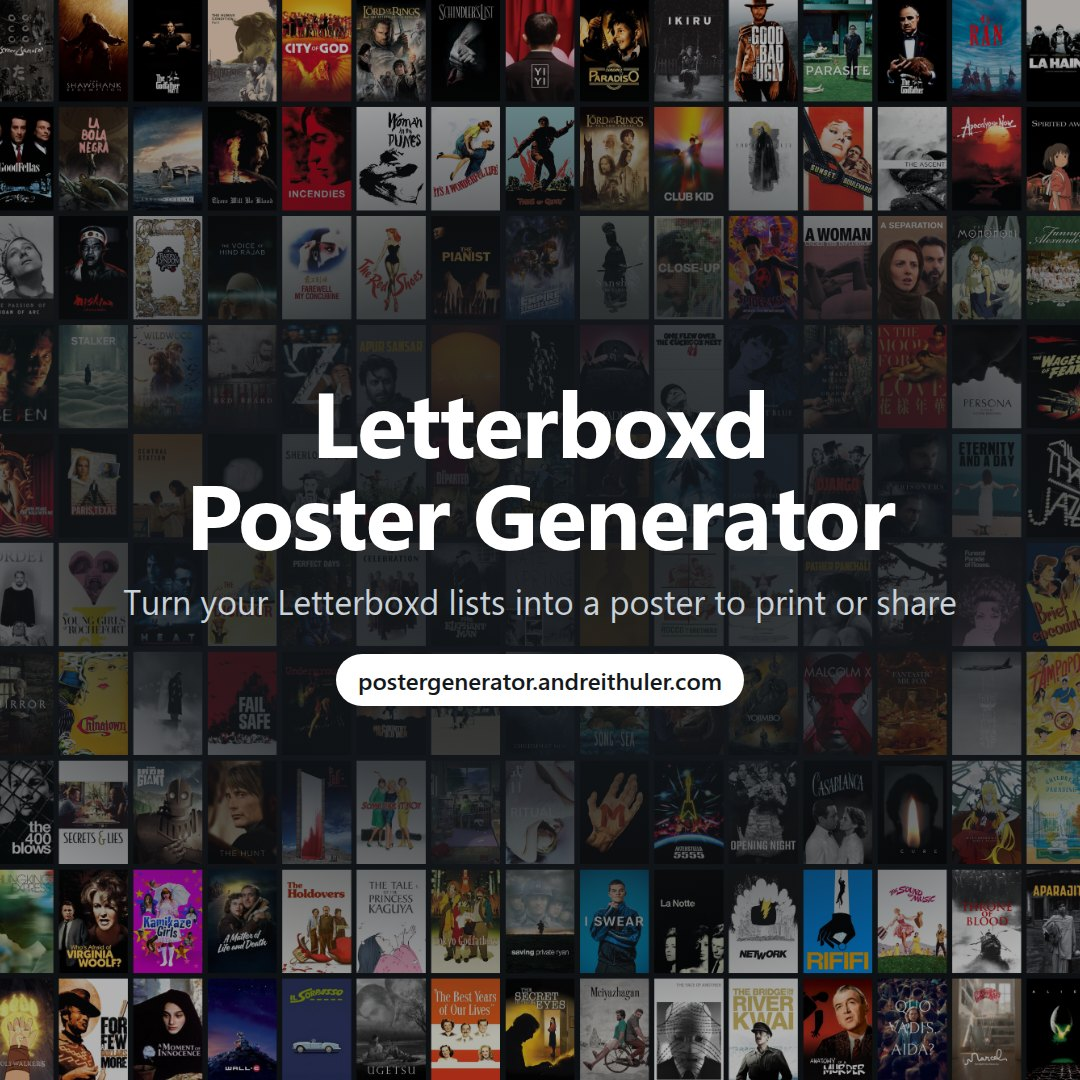
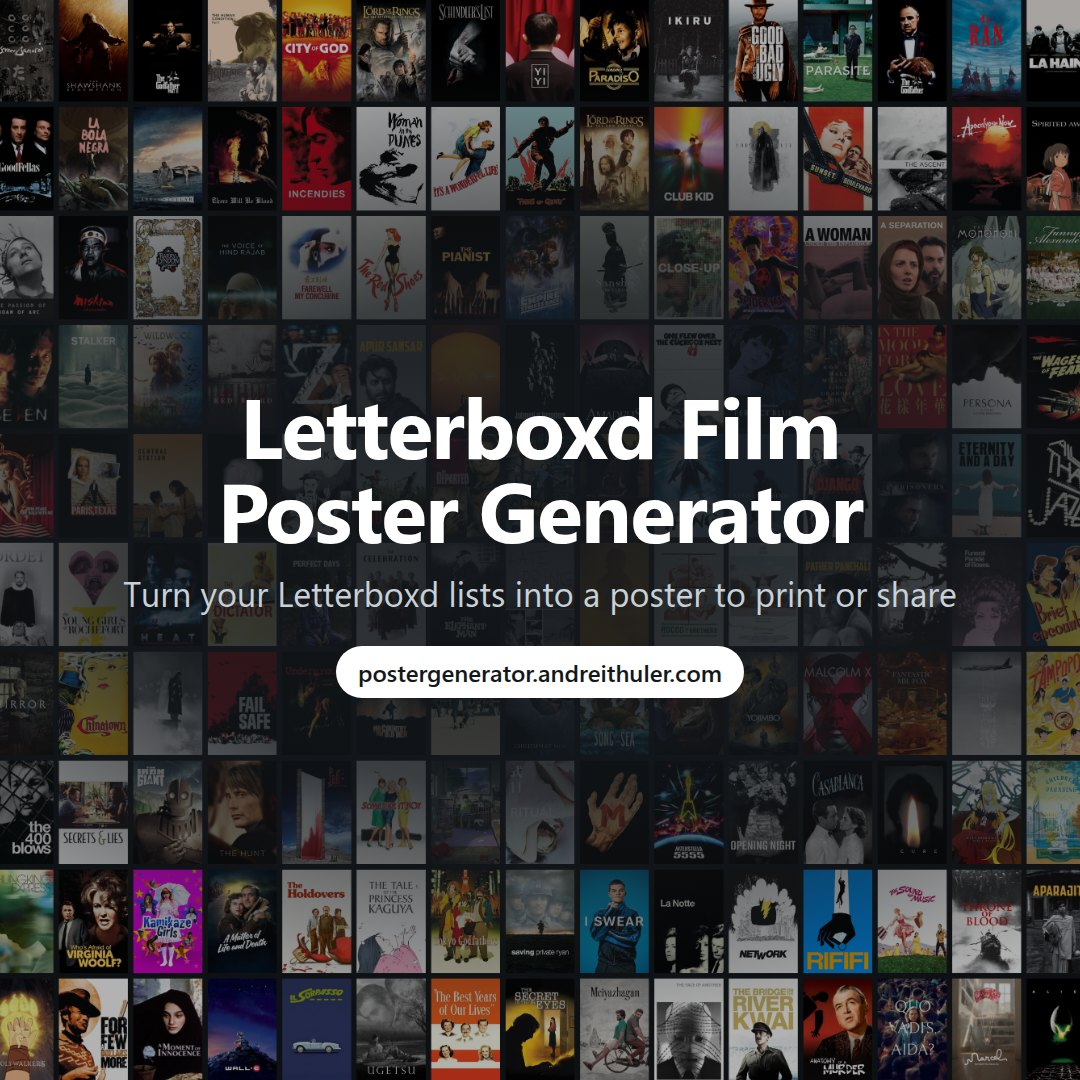
SEO: title, description, link previews, structured data, FAQ, sitemap
The site is now "Letterboxd Film Poster Generator", with a shorter title,
a meta description, a canonical URL, theme colours and a favicon. Link
previews (Open Graph and Twitter) use the banner, which now carries the
new name (the square version too).

An FAQ dialog, opened from the header, the footer or /#faq, explains
what the site does. Its script is inline, so it works even if app.js
fails. Structured data describes the app, and the FAQ part is built from
the dialog so each question is written once.

robots.txt and sitemap.xml point crawlers at the one page.

Changed region(s): [[0.1222, 0.3667, 0.8861, 0.6722]]

diff --git a/index.html b/index.html
@@ -3,7 +3,45 @@
 <head>
 <meta charset="utf-8">
 <meta name="viewport" content="width=device-width, initial-scale=1">
-<title>Letterboxd Poster Generator</title>
+<title>Letterboxd Film Poster Generator: printable list posters</title>
+<meta name="description" content="Turn any Letterboxd list into a film poster to print or share. Free, no account, and your data stays in your browser. Download a PNG or a print-ready PDF.">
+<link rel="canonical" href="https://postergenerator.andreithuler.com/">
+<link rel="icon" type="image/svg+xml" href="favicon.svg">
+<meta name="theme-color" content="#f6f6f4" media="(prefers-color-scheme: light)">
+<meta name="theme-color" content="#14181c" media="(prefers-color-scheme: dark)">
+<meta property="og:type" content="website">
+<meta property="og:site_name" content="Letterboxd Film Poster Generator">
+<meta property="og:title" content="Letterboxd Film Poster Generator">
+<meta property="og:description" content="Turn any Letterboxd list into a film poster to print or share. Free, no account, and your data stays in your browser. Download a PNG or a print-ready PDF.">
+<meta property="og:url" content="https://postergenerator.andreithuler.com/">
+<meta property="og:image" content="https://postergenerator.andreithuler.com/docs/banner.jpg">
+<meta property="og:image:width" content="1280">
+<meta property="og:image:height" content="640">
+<meta property="og:image:alt" content="A wall of film posters behind the words Letterboxd Film Poster Generator">
+<meta name="twitter:card" content="summary_large_image">
+<!-- Structured data for search engines. The FAQ part is built from the #faq dialog (end of the page). -->
+<script type="application/ld+json">
+{
+ "@context": "https://schema.org",
+ "@type": "WebApplication",
+ "name": "Letterboxd Film Poster Generator",
+ "url": "https://postergenerator.andreithuler.com/",
+ "description": "Turn any Letterboxd list into a film poster to print or share. Free, no account, and your data stays in your browser. Download a PNG or a print-ready PDF.",
+ "applicationCategory": "DesignApplication",
+ "operatingSystem": "Any",
+ "offers": {
+  "@type": "Offer",
+  "price": "0",
+  "priceCurrency": "USD"
+ },
+ "author": {
+  "@type": "Person",
+  "name": "Andrei Thüler",
+  "url": "https://andreithuler.com"
+ },
+ "image": "https://postergenerator.andreithuler.com/docs/banner.jpg"
+}
+</script>
 <style>
   :root { --bg: #f6f6f4; --panel: #fff; --fg: #1b1b1b; --muted: #666; --line: #ddd; --accent: #00a35c; }
   @media (prefers-color-scheme: dark) {
@@ -147,6 +185,9 @@
   dialog { width: min(460px, calc(100vw - 32px)); padding: 18px; border: 1px solid var(--line); border-radius: 12px; background: var(--panel); color: var(--fg); }
   dialog::backdrop { background: rgba(0,0,0,.5); }
   dialog h2 { margin: 0 0 12px; font-size: 18px; }
+  #faq { width: min(620px, calc(100vw - 32px)); }
+  #faq h3 { margin: 16px 0 4px; font-size: 15px; }
+  #faq p { margin: 0; color: var(--muted); }
   #dl-form { display: grid; gap: 12px; }
   .seg { display: flex; }
   .seg label { flex: 1; display: block; text-align: center; padding: 7px; border: 1px solid var(--line); cursor: pointer; }
@@ -182,8 +223,9 @@
 <script type="module" src="app.js" onerror="unrestore()"></script>
 </head>
 <body>
-<header><h1>Letterboxd Poster Generator</h1>
-  <nav class="support" aria-label="Support this project">
+<header><h1>Letterboxd Film Poster Generator</h1>
+  <nav class="support" aria-label="Help and support">
+    <a class="btn" href="#faq">FAQ</a>
     <a class="btn" href="https://ko-fi.com/andreithuler" target="_blank" rel="noopener">☕ Support on Ko-fi</a>
     <a class="btn" href="https://github.com/sponsors/athuler" target="_blank" rel="noopener">♥ Sponsor on GitHub</a>
   </nav>
@@ -383,9 +425,30 @@
     </div>
   </form>
 </dialog>
+<dialog id="faq" aria-labelledby="faq-title">
+  <h2 id="faq-title">Frequently asked questions</h2>
+  <h3>What does Letterboxd Film Poster Generator do?</h3>
+  <p>It turns any of your Letterboxd lists into a poster: a grid of film posters with a title and captions, ready to print, set as a wallpaper or share.</p>
+  <h3>How do I get my Letterboxd data?</h3>
+  <p>Export it at <a href="https://letterboxd.com/data/export/" target="_blank" rel="noopener">letterboxd.com/data/export</a> and you&#x27;ll get a .zip file. Drop that file on this page.</p>
+  <h3>Which lists can I use?</h3>
+  <p>Any of your Letterboxd lists, plus your Watchlist, Watched films and Ratings. You can also start empty and add films by searching.</p>
+  <h3>Is it free? Do I need an account?</h3>
+  <p>It&#x27;s free, and you don&#x27;t need an account here. You only need a Letterboxd account to export your data.</p>
+  <h3>Is my data private?</h3>
+  <p>Yes. Your export is read in your browser and never uploaded. Your settings and recent exports are saved in this browser only.</p>
+  <h3>Can I print my poster?</h3>
+  <p>Yes. Pick a paper size (A4 to A0, Letter or 11×17) and download a print-ready PDF at up to 300 dpi, or a PNG.</p>
+  <h3>Why is a film missing its poster?</h3>
+  <p>Posters come from TMDB. When TMDB has no match for a film, it&#x27;s shown as its title instead. Turn on Hide no-poster to leave those films out.</p>
+  <h3>Can I share my poster?</h3>
+  <p>Yes. Click Share… to send it to your phone&#x27;s share menu, or copy it and post it to X, Bluesky, Threads, Facebook or Reddit.</p>
+  <div class="dl-actions"><button id="faq-close" type="button">Close</button></div>
+</dialog>
 <footer>
   <p class="support">
     <span>Made by <a href="https://andreithuler.com" target="_blank" rel="noopener">Andrei Thüler</a>
+    · <a href="#faq">FAQ</a>
     · <a href="https://github.com/athuler/LetterboxdPosterGenerator/issues" target="_blank" rel="noopener">Send feedback</a></span>
     <!-- On narrow screens the support buttons live here instead of the header. -->
     <a class="btn narrow" href="https://ko-fi.com/andreithuler" target="_blank" rel="noopener">☕ Support on Ko-fi</a>
@@ -393,5 +456,21 @@
   </p>
   Posters from <a href="https://www.themoviedb.org/" target="_blank" rel="noopener">TMDB</a> API. Not affiliated with, endorsed by, or certified by TMDB or Letterboxd.
 </footer>
+<script>
+// The FAQ works without app.js. Its links point at #faq, so /#faq opens it straight away.
+// Its structured data is built from the dialog, so each question is written once.
+(() => {
+  const faq = document.getElementById('faq');
+  for (const a of document.querySelectorAll('a[href="#faq"]')) a.onclick = e => { e.preventDefault(); faq.showModal(); };
+  document.getElementById('faq-close').onclick = () => faq.close();
+  if (location.hash === '#faq') faq.showModal();
+  const ld = document.createElement('script');
+  ld.type = 'application/ld+json';
+  ld.textContent = JSON.stringify({ '@context': 'https://schema.org', '@type': 'FAQPage',
+    mainEntity: [...faq.querySelectorAll('h3')].map(h => ({ '@type': 'Question', name: h.textContent,
+      acceptedAnswer: { '@type': 'Answer', text: h.nextElementSibling.textContent } })) });
+  document.head.append(ld);
+})();
+</script>
 </body>
 </html>

diff --git a/tests/page.spec.js b/tests/page.spec.js
@@ -1,0 +1,38 @@
+// The FAQ dialog and the structured data that mirrors it for search engines.
+import { test, expect } from './helpers.js';
+
+test('the FAQ opens from the header and the footer, and closes', async ({ page }) => {
+  await page.goto('/');
+  const faq = page.locator('#faq');
+  await expect(faq).toBeHidden();
+  await page.locator('header a[href="#faq"]').click();
+  await expect(faq).toBeVisible();
+  await page.locator('#faq-close').click();
+  await expect(faq).toBeHidden();
+  await page.locator('footer a[href="#faq"]').click();
+  await expect(faq).toBeVisible();
+});
+
+test('/#faq opens the FAQ straight away', async ({ page }) => {
+  await page.goto('/#faq');
+  await expect(page.locator('#faq')).toBeVisible();
+});
+
+test('structured data describes the app and carries the FAQ from the dialog', async ({ page }) => {
+  await page.goto('/');
+  const ld = await page.locator('script[type="application/ld+json"]').evaluateAll(ss => ss.map(s => JSON.parse(s.textContent)));
+  expect(ld.find(n => n['@type'] === 'WebApplication').url).toBe('https://postergenerator.andreithuler.com/');
+  const faq = ld.find(n => n['@type'] === 'FAQPage').mainEntity.map(q => [q.name, q.acceptedAnswer.text]);
+  const shown = await page.locator('#faq h3').evaluateAll(hs => hs.map(h => [h.textContent, h.nextElementSibling.textContent]));
+  expect(faq).toEqual(shown);
+  expect(faq.length).toBeGreaterThan(5);
+});
+
+test('the FAQ still works when the app script fails to load', async ({ page }) => {
+  await page.route('**/app.js', r => r.abort());
+  await page.goto('/#faq');
+  await expect(page.locator('#faq')).toBeVisible();
+  await page.locator('#faq-close').click();
+  await page.locator('footer a[href="#faq"]').click();
+  await expect(page.locator('#faq')).toBeVisible();
+});

diff --git a/README.md b/README.md
@@ -1,6 +1,6 @@
 # Letterboxd Film Poster Generator
 
-[![Letterboxd Poster Generator: turn your Letterboxd lists into a poster to print or share. A wall of film posters behind the title and the site address, postergenerator.andreithuler.com](docs/banner.jpg)](https://postergenerator.andreithuler.com)
+[![Letterboxd Film Poster Generator: turn your Letterboxd lists into a poster to print or share. A wall of film posters behind the title and the site address, postergenerator.andreithuler.com](docs/banner.jpg)](https://postergenerator.andreithuler.com)
 
 <p align="center">
   <a href="https://ko-fi.com/andreithuler"><img src="https://img.shields.io/badge/Support_on-Ko--fi-FF5E5B?logo=ko-fi&logoColor=white&style=for-the-badge" alt="Support on Ko-fi"></a>
